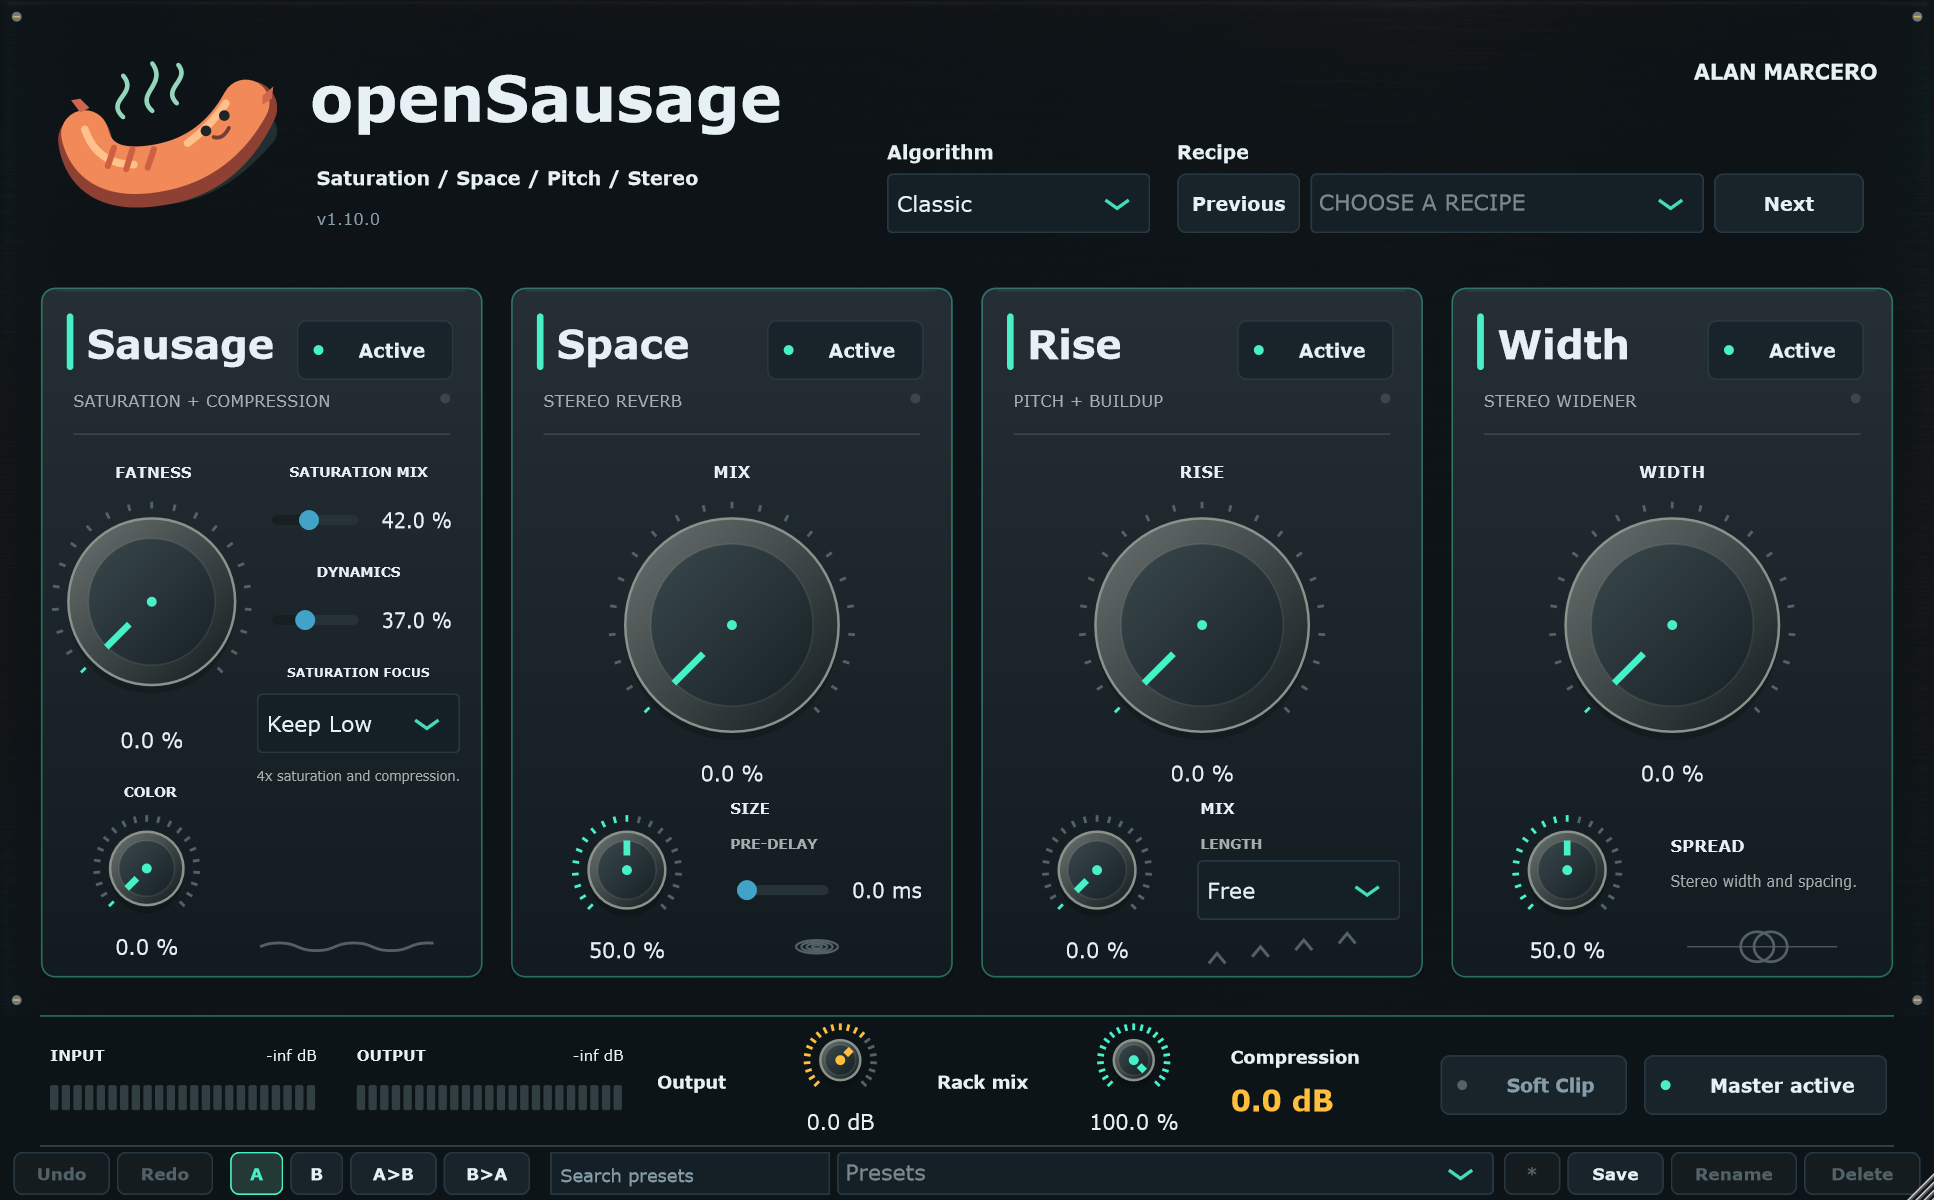
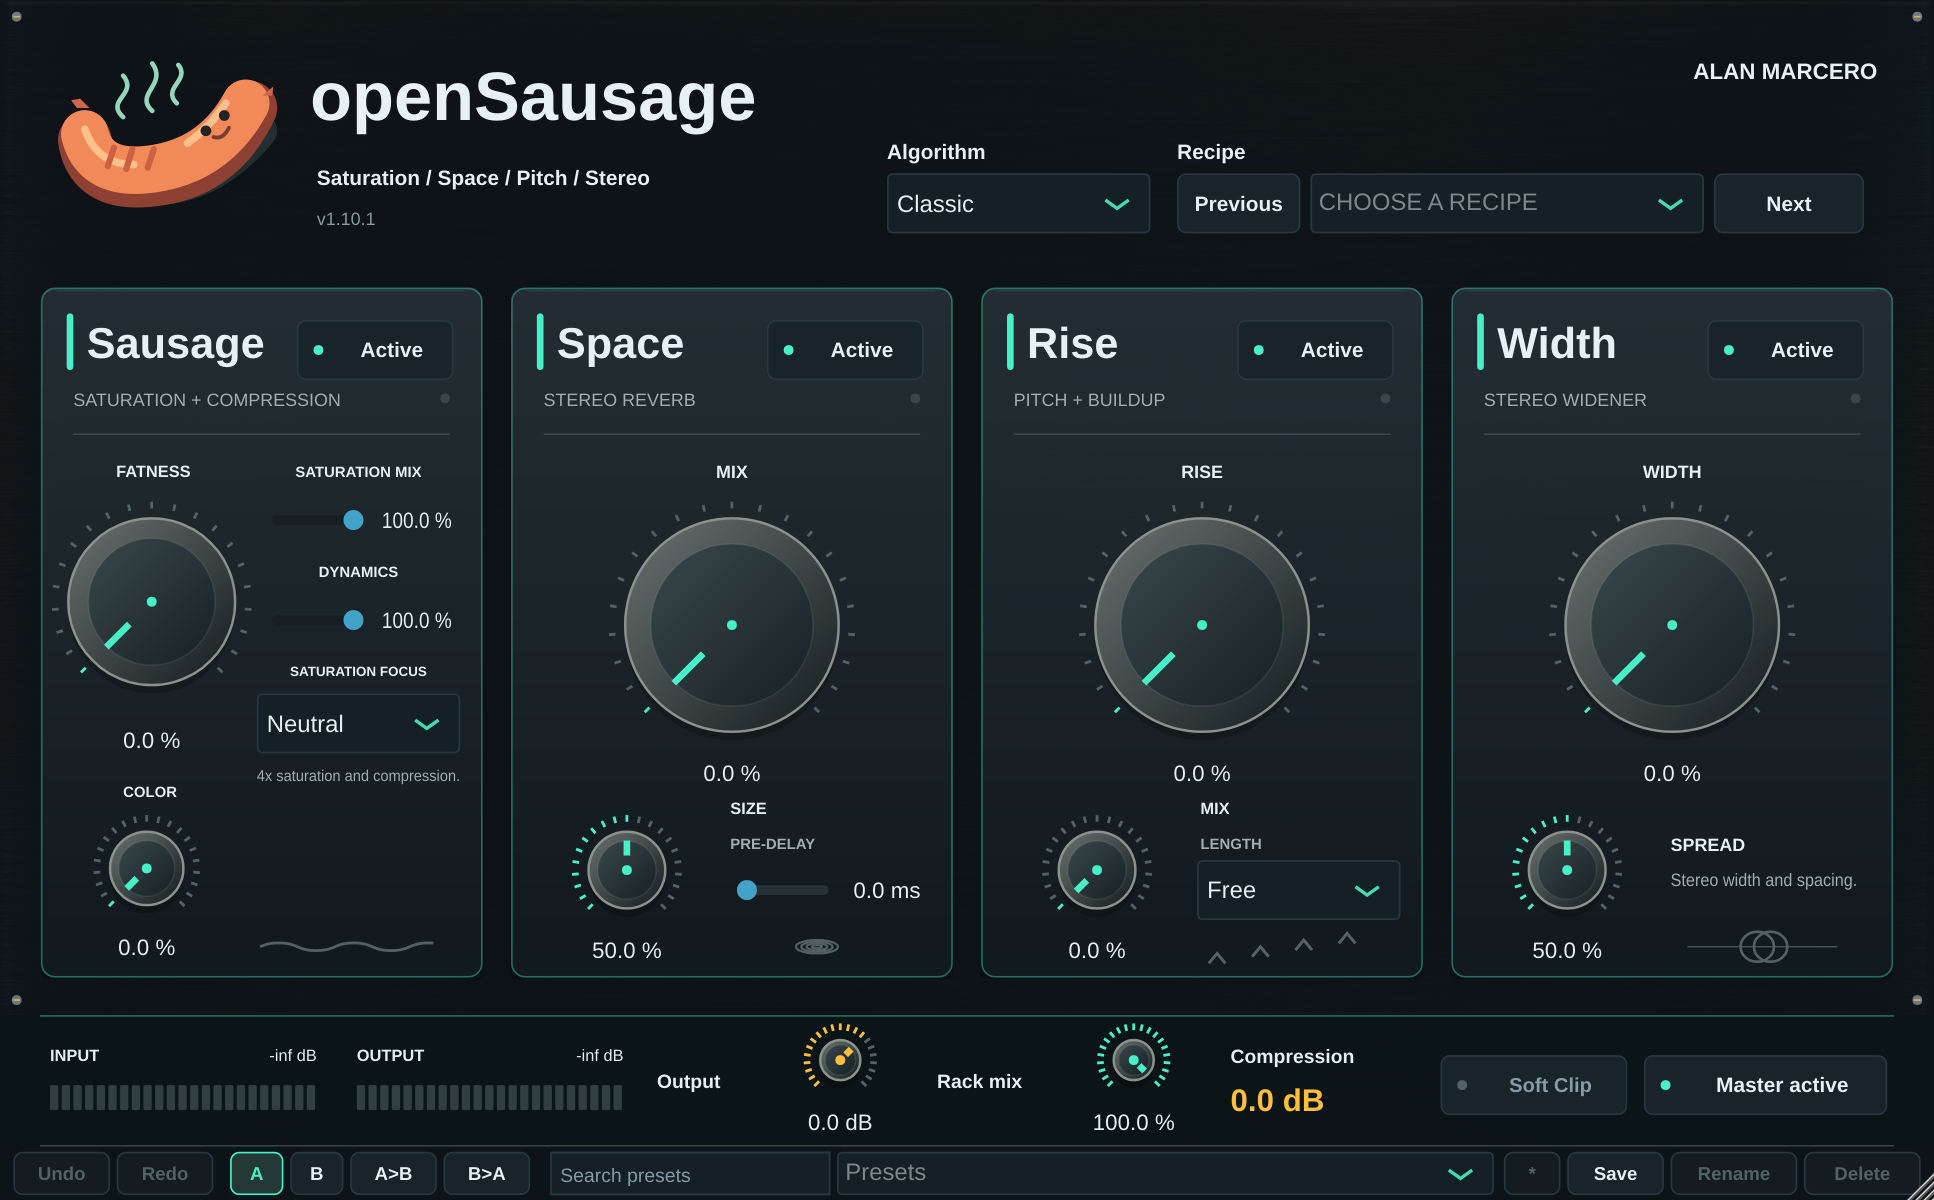
docs: refresh preview screenshot [skip ci]
Capture the editor at its default size on the factory default patch.
The v1.10.1 push changed the version drawn in the editor via
CMakeLists.txt, and update-preview skipped it because that file was
outside the UI path filter. Take the clean capture before the harness
edits controls, and include CMakeLists.txt in the filter.

diff --git a/Tools/EditorCapture.cpp b/Tools/EditorCapture.cpp
@@ -71,6 +71,8 @@ int main(int argc, char** argv) {
         require(find(*editor, "suiteUndo") && find(*editor, "suiteRedo") && find(*editor, "suiteA")
                     && find(*editor, "suiteB") && find(*editor, "presetSearch") && find(*editor, "presetBrowser"),
                 "Undo, A/B, or preset browser missing");
+        require(editor->getWidth() == 1289 && editor->getHeight() == 800, "Editor left its default size");
+        save(*editor, output, "openSausage-clean.png");
         saturationMix->setValue(42.0, juce::sendNotificationSync);
         dynamics->setValue(37.0, juce::sendNotificationSync);
         focus->setSelectedId(2, juce::sendNotificationSync);
@@ -98,7 +100,6 @@ int main(int argc, char** argv) {
         preDelay->setValue(0.0, juce::sendNotificationSync);
         masterMix->setValue(100.0, juce::sendNotificationSync);
         softClip->setToggleState(false, juce::sendNotificationSync);
-        save(*editor, output, "openSausage-clean.png");
         auto* algorithms = dynamic_cast<juce::ComboBox*>(find(*editor, "algorithm"));
         require(algorithms != nullptr && algorithms->getNumItems() == 4, "Four global algorithms missing");
         auto* algorithmParameter = processor.parameters.getParameter("algorithm");
